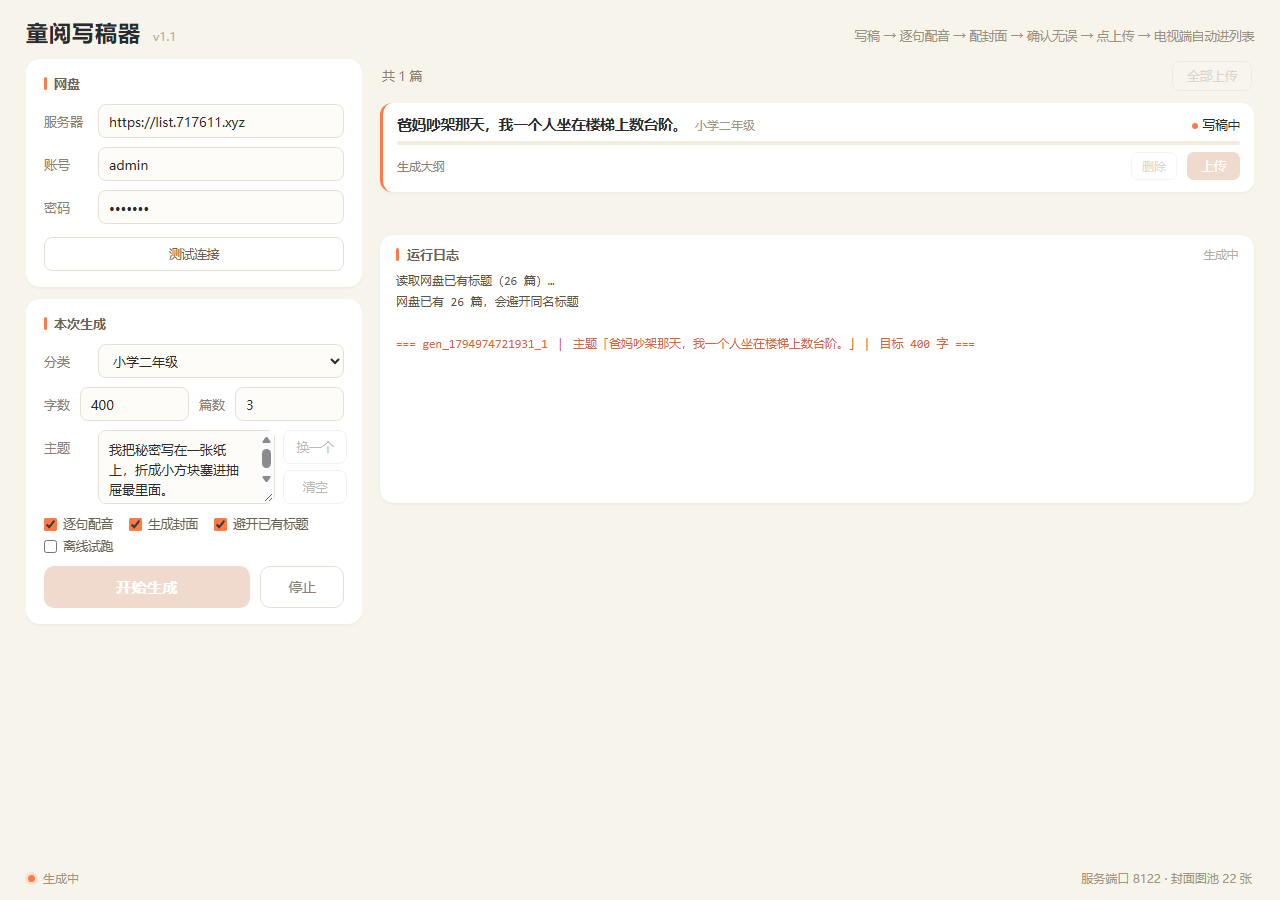
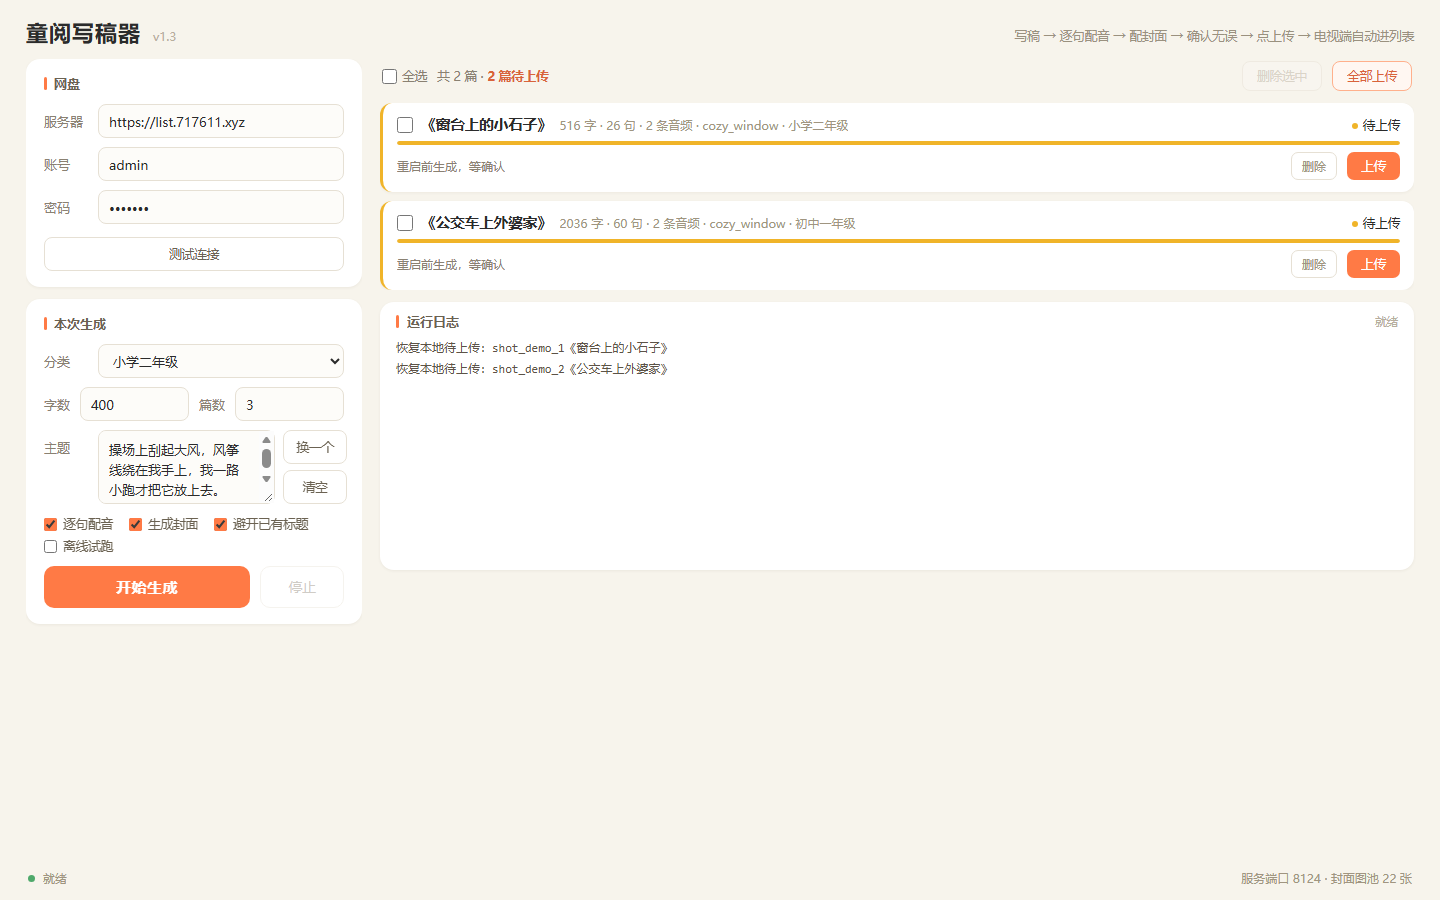
docs: README 补 v1.4 勾选与批量删除说明，界面截图换新版

diff --git a/README.md b/README.md
@@ -15,6 +15,7 @@
 - **配音**：edge-tts 逐句合成 `001.mp3…`，音色、语速、并发都可配。
 - **配封面**：按标题关键词从 `covers/` 的图池里挑，命中不了才按 id 哈希兜底。
 - **手动上传**：生成完停在「待上传」，你确认标题、字数、句数、封面无误后再点上传；顺序是建目录 → mp3 → cover → **最后**写 json，电视端不会扫到半成品。
+- **批量清理**：列表每篇带勾选框，配合「全选」和「删除选中 N」一次性清掉本地旧稿；正在写稿、配音、上传、排队的篇目会自动禁选，删除时也会跳过并在日志里说明原因。删的是 NAS 本地目录，网盘上已上传的副本不受影响。
 
 生成过程中卡片和日志都实时显示阶段：
 
@@ -35,7 +36,7 @@
 # compose.yaml
 services:
   kidswriter:
-    image: ghcr.io/jankxia/kidswriter:v1.1
+    image: ghcr.io/jankxia/kidswriter:v1.4
     # build: .                  # 想从源码构建就换成这行
     container_name: kidswriter
     restart: unless-stopped
@@ -60,7 +61,7 @@ docker compose up -d
 # 或者一条命令，注意也要给子网，否则 bridge 创建会失败
 docker run -d --name kidswriter --restart unless-stopped \
   -p 8122:8122 -v /你的目录/data:/app/data \
-  ghcr.io/jankxia/kidswriter:v1.1
+  ghcr.io/jankxia/kidswriter:v1.4
 ```
 
 数据都在 `data/`：`config.json` 和 `输出/<文章id>/`。容器重启后没上传的稿子会自动回到「待上传」，不会丢。
@@ -97,6 +98,7 @@ docker run -d --name kidswriter --restart unless-stopped \
 
 ## 版本
 
+- `v1.4`：列表加勾选框与「全选 / 删除选中 N」批量删除，新增 `POST /api/delete_many {"ids":[...]}`（返回 `removed` 与 `skipped` 明细）；正在生成的篇目禁选、跳过并在日志说明。
 - `v1.3`：给电视端开接口——`POST /api/start` 直接返回本批文章 id，新增 `GET /api/tasks`（精简任务列表，不带日志），电视可以下发完就走、由 NAS 后台继续写。
 - `v1.2`：小学文章逐字注音（tokens + 声调 + 变调），Docker 镜像内置 pypinyin。
 - `v1.1`：分阶段状态与进度、随机主题可刷新、生成完手动上传、Docker 镜像、重启不丢稿、可删除本地稿。
